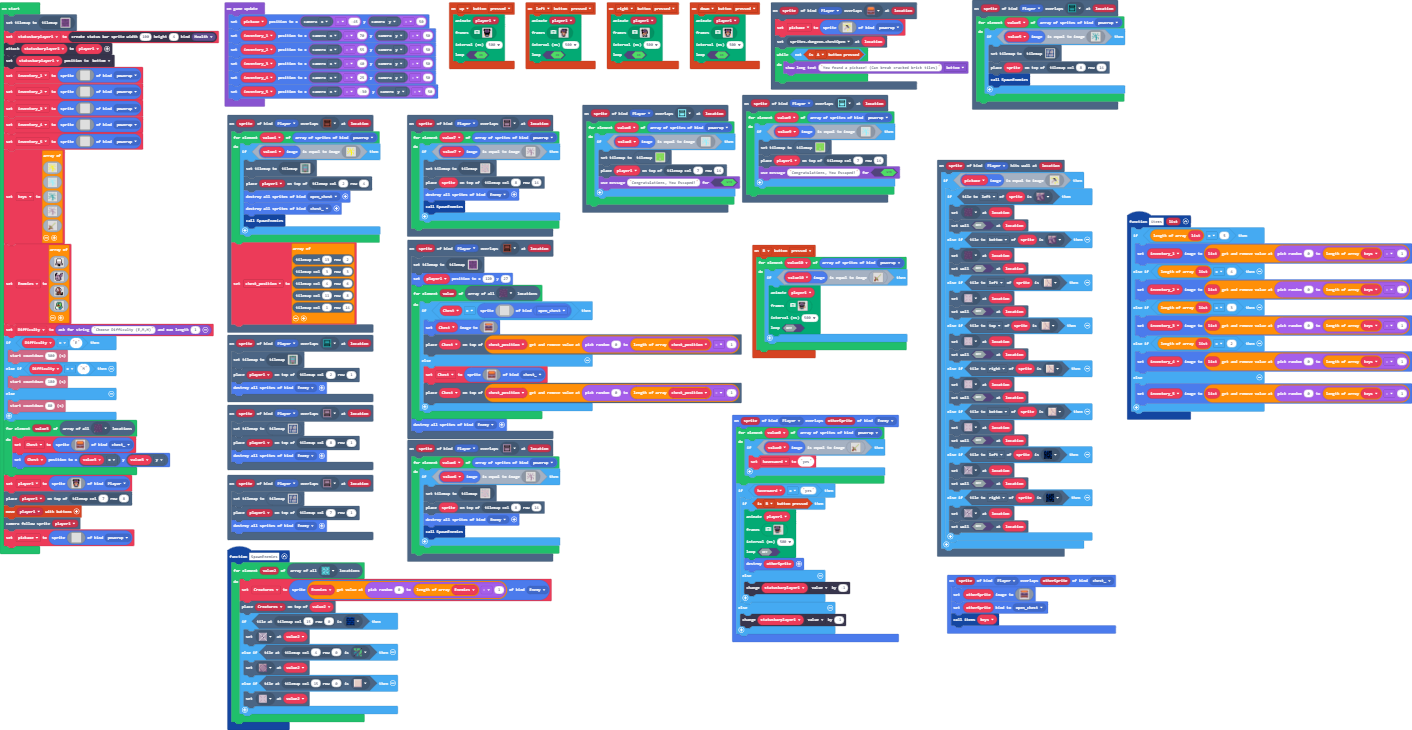
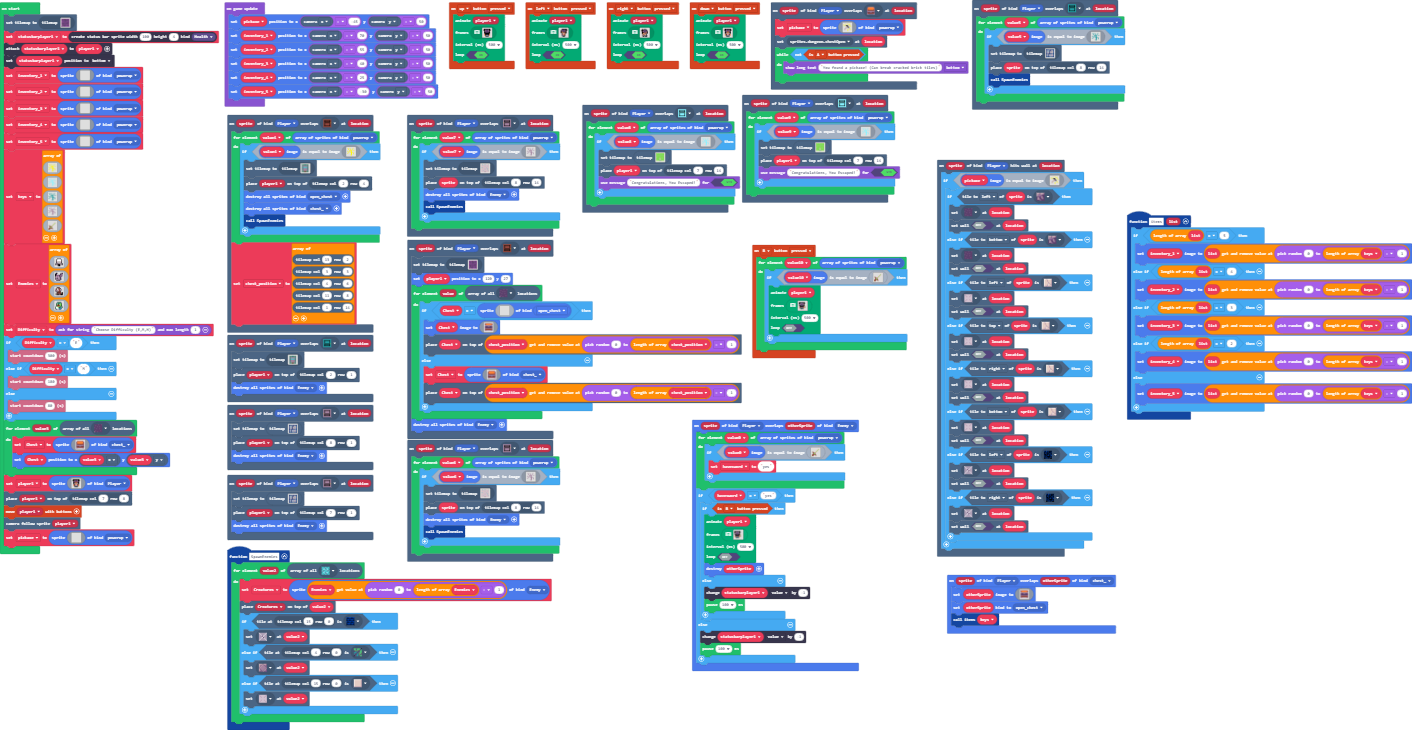
Update main.blocks, main.ts

Changed region(s): [[0.4674, 0.5425, 0.6544, 0.9342]]

diff --git a/main.ts b/main.ts
@@ -803,9 +803,11 @@ sprites.onOverlap(SpriteKind.Player, SpriteKind.Enemy, function (sprite, otherSp
             sprites.destroy(otherSprite)
         } else {
             statusbarplayer1.value += -1
+            pause(100)
         }
     } else {
         statusbarplayer1.value += -1
+        pause(100)
     }
 })
 let havesword = ""
